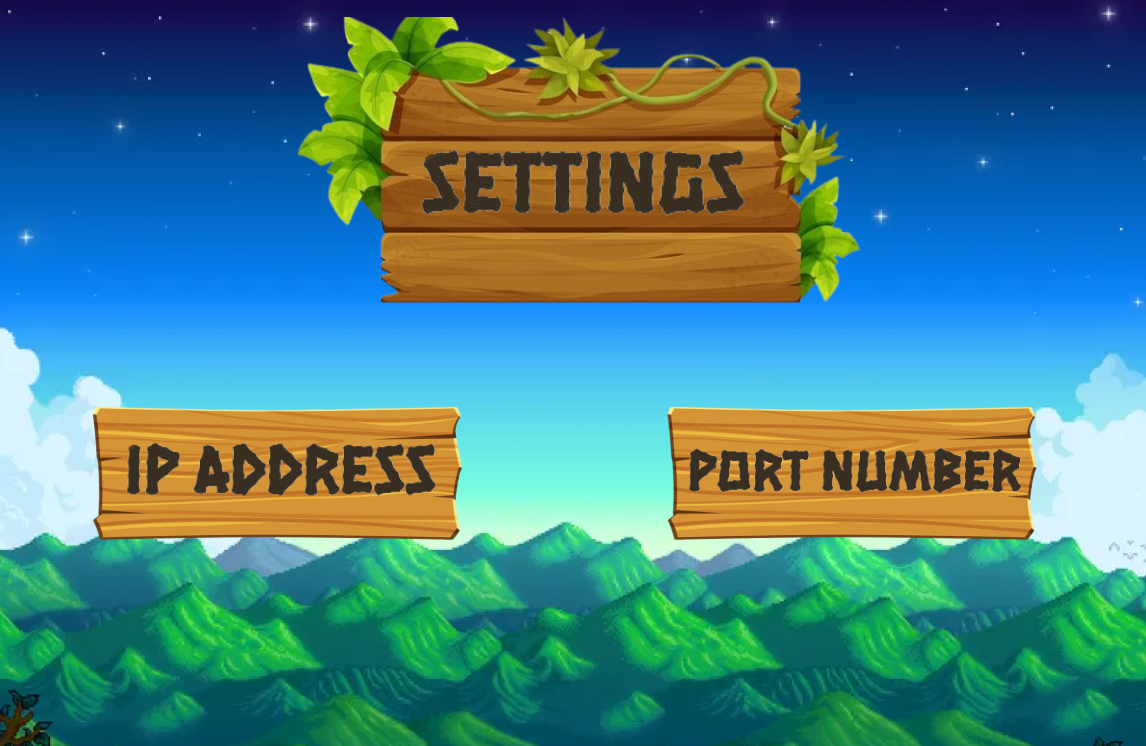
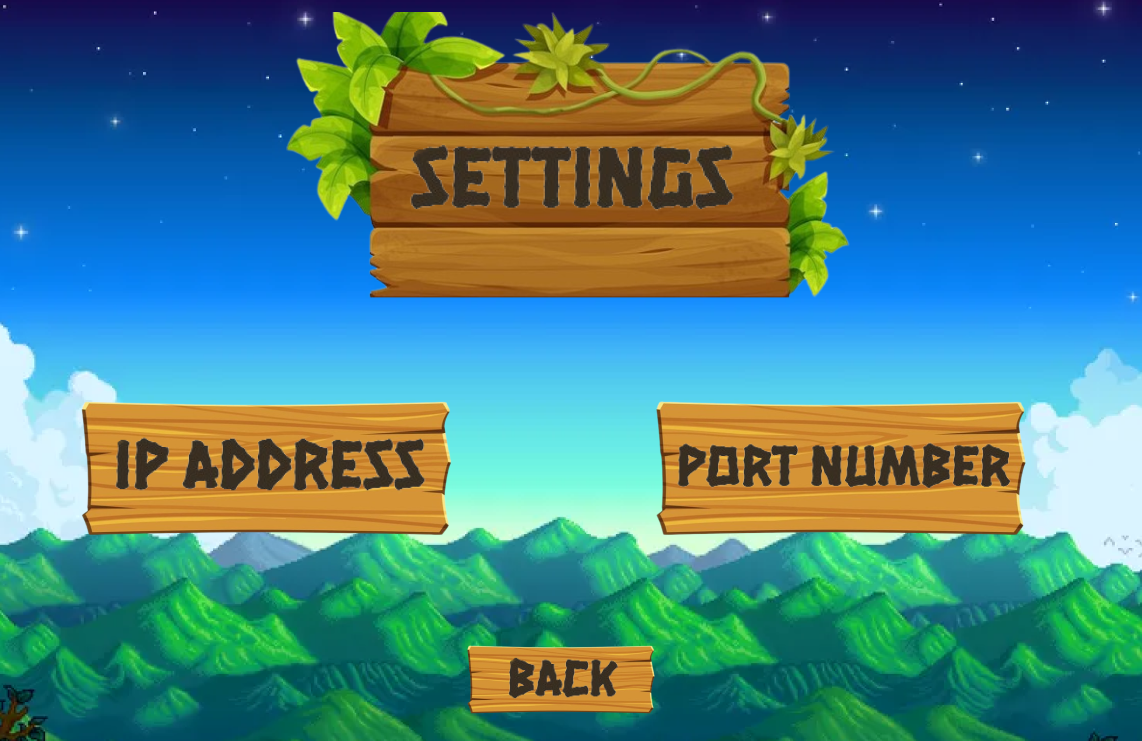
ADDDD

diff --git a/src/client/Client.java b/src/client/Client.java
@@ -22,7 +22,7 @@ public class Client implements LastWish, ActionListener {
 	JFrame window, mainMenu, settingsMenu;
 	Canvas canvas;
 	DrawingPanel main, settingsPanel;
-	BufferedImage menuPNG;
+	BufferedImage menuPNG, settingsPNG;
 	JButton play, settings;
 	int W = 1300;
 	int H = 800;
@@ -44,9 +44,9 @@ public class Client implements LastWish, ActionListener {
 		settingsMenu = new JFrame("Sarvivarz");
 		settingsMenu.setDefaultCloseOperation(JFrame.EXIT_ON_CLOSE);
 
-
-
 		menuPNG = Client.loadImage("./src/images/image.png");
+		settingsPNG = Client.loadImage("./src/images/settingsImage.png");
+
 		mainMenu = new JFrame("Sarvivarz");
 		mainMenu.setResizable(false);
 		main = new DrawingPanel();
